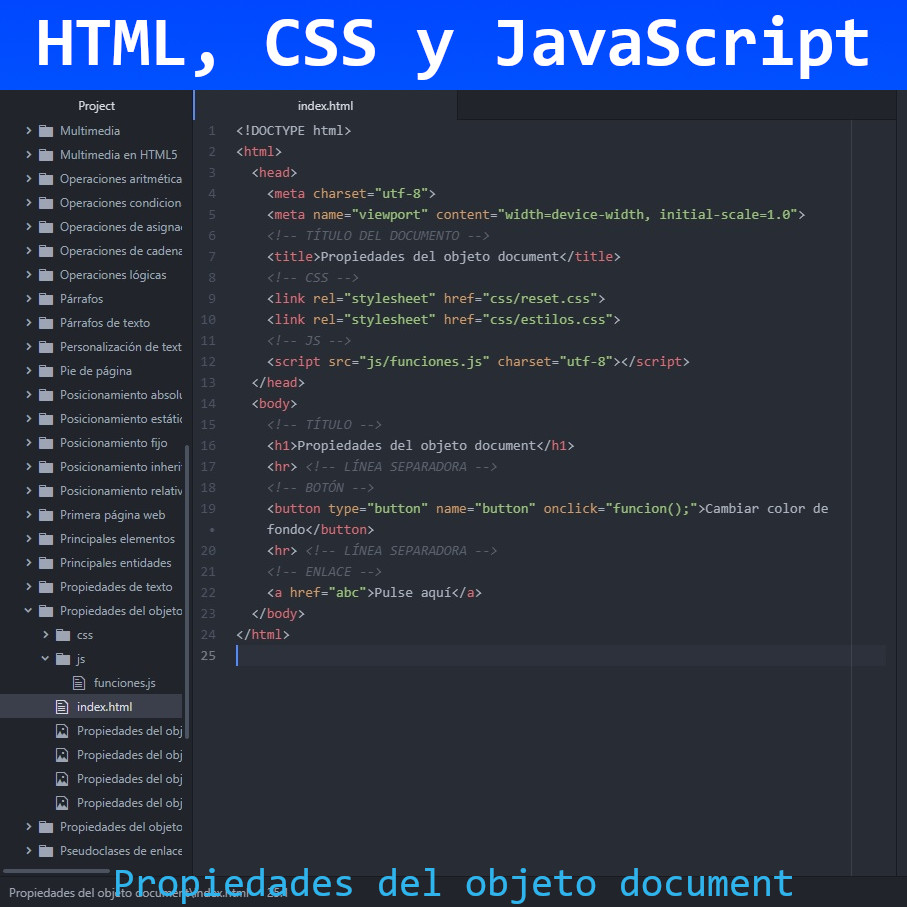
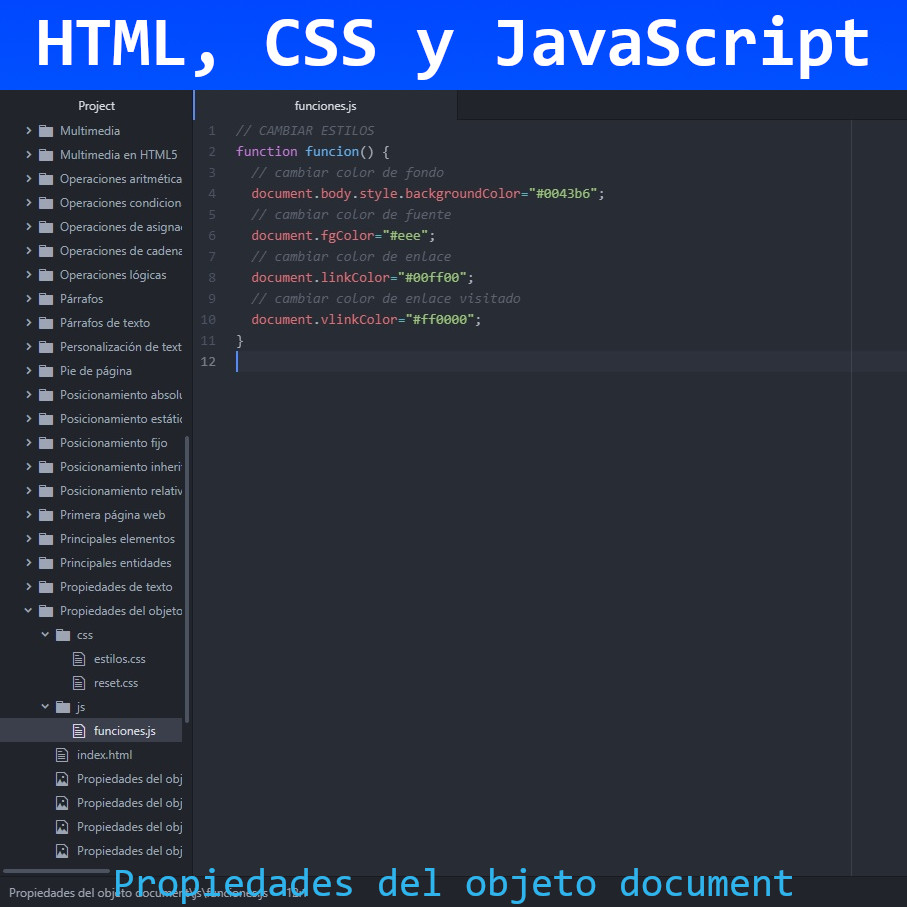
Propiedades del objeto document
Propiedades del objeto document en JavaScript

diff --git a/HTML, CSS y JavaScript/Propiedades del objeto document/js/funciones.js b/HTML, CSS y JavaScript/Propiedades del objeto document/js/funciones.js
@@ -5,5 +5,7 @@ function funcion() {
   // cambiar color de fuente
   document.fgColor="#eee";
   // cambiar color de enlace
-  document.linkColor="00ff00";
+  document.linkColor="#00ff00";
+  // cambiar color de enlace visitado
+  document.vlinkColor="#ff0000";
 }

diff --git a/HTML, CSS y JavaScript/Propiedades del objeto document/index.html b/HTML, CSS y JavaScript/Propiedades del objeto document/index.html
@@ -19,6 +19,6 @@
     <button type="button" name="button" onclick="funcion();">Cambiar color de fondo</button>
     <hr> <!-- LÍNEA SEPARADORA -->
     <!-- ENLACE -->
-    <a href="abc">Pulse aquí</a>
+    <a href="#">Pulse aquí</a>
   </body>
 </html>
